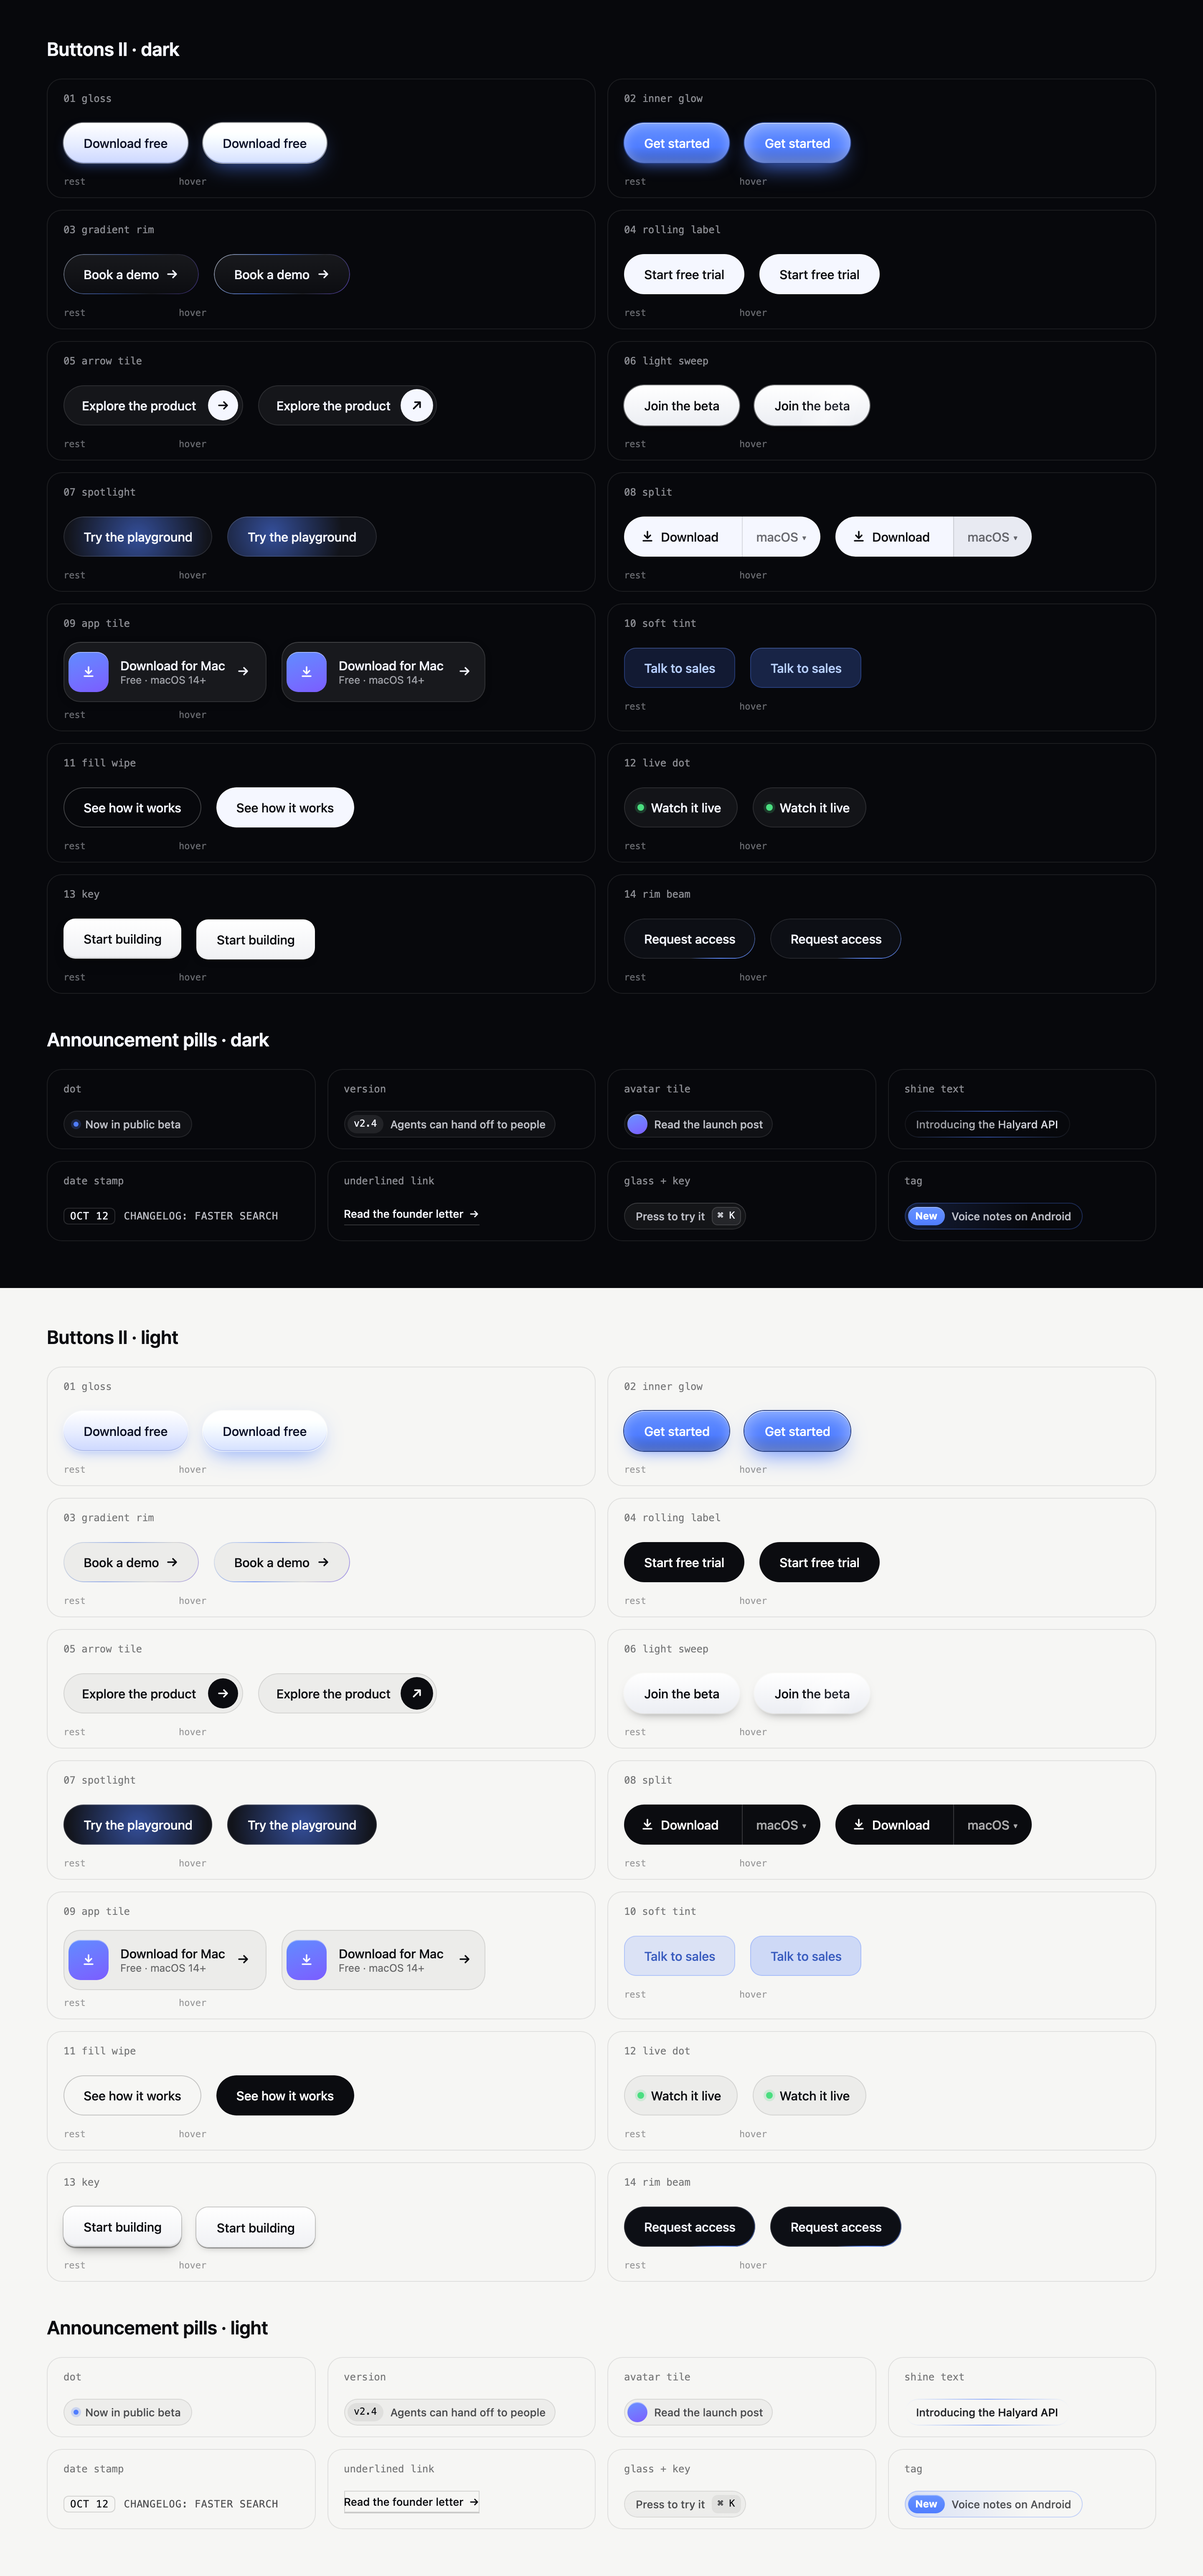
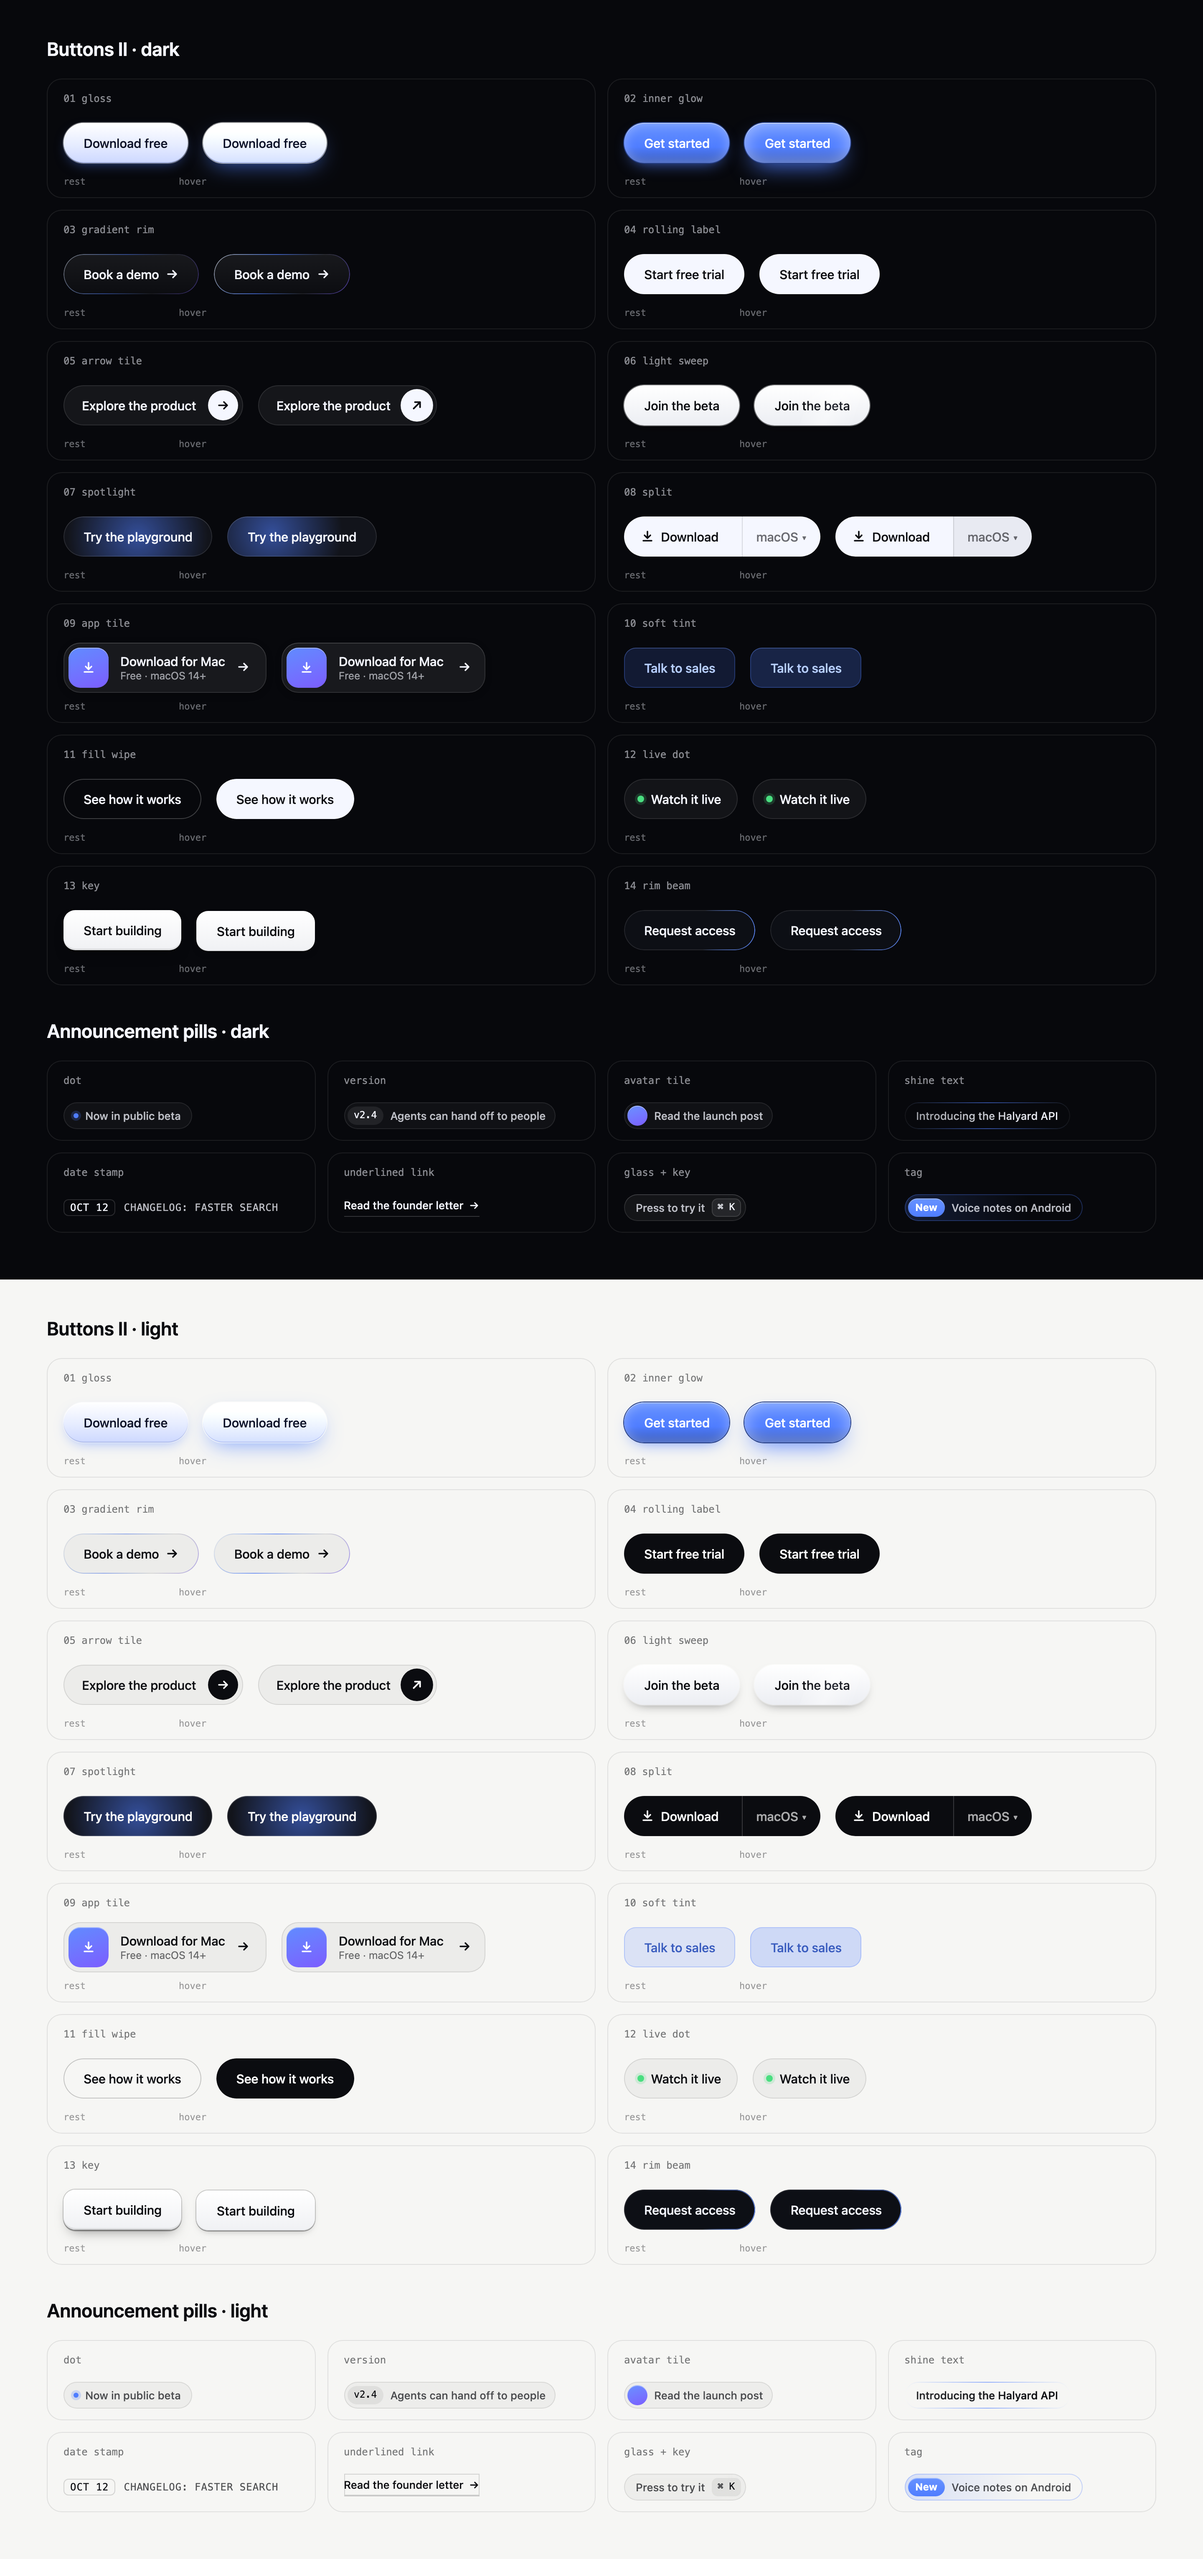
check.mjs: shape.inset-tile probe (leading tile inset left = top = bottom, concentric radius, zoom-aware, whole page); Buttons II border-box sizing fixes the app-tile's doubled vertical inset; Halyard lane tiles inset 8/8/8

diff --git a/system/variety/buttons-2/buttons-2.css b/system/variety/buttons-2/buttons-2.css
@@ -3,7 +3,7 @@
    Every class reads --acc (accent), --acc-2 (accent end), --ink, --canvas. Add .is-hover to show a hover state statically.
    Light theme: wrap in [data-theme=light]. */
 :root { --acc: #4f7dff; --acc-2: #7b5cff; --ink: #f5f7ff; --canvas: #07080c; --ease: cubic-bezier(.22,1,.36,1); }
-.b2 { position: relative; display: inline-flex; align-items: center; justify-content: center; gap: 8px; height: 48px; padding: 0 24px; border-radius: 999px; font: 500 15px/1 "Inter", system-ui, sans-serif; letter-spacing: -0.005em; text-decoration: none; white-space: nowrap; cursor: pointer; border: 0; overflow: hidden; isolation: isolate; transition: transform .16s var(--ease), box-shadow .25s var(--ease), background .25s var(--ease), filter .25s; }
+.b2 { box-sizing: border-box; position: relative; display: inline-flex; align-items: center; justify-content: center; gap: 8px; height: 48px; padding: 0 24px; border-radius: 999px; font: 500 15px/1 "Inter", system-ui, sans-serif; letter-spacing: -0.005em; text-decoration: none; white-space: nowrap; cursor: pointer; border: 0; overflow: hidden; isolation: isolate; transition: transform .16s var(--ease), box-shadow .25s var(--ease), background .25s var(--ease), filter .25s; }
 .b2:active { transform: scale(.975); }
 .b2.sq { border-radius: 14px; }            /* smooth-corner variant: pair with squircle.ts clip for true G2 */
 .b2 svg { width: 16px; height: 16px; flex: none; }

diff --git a/work/x-posts/buttons-2.css b/work/x-posts/buttons-2.css
@@ -3,7 +3,7 @@
    Every class reads --acc (accent), --acc-2 (accent end), --ink, --canvas. Add .is-hover to show a hover state statically.
    Light theme: wrap in [data-theme=light]. */
 :root { --acc: #4f7dff; --acc-2: #7b5cff; --ink: #f5f7ff; --canvas: #07080c; --ease: cubic-bezier(.22,1,.36,1); }
-.b2 { position: relative; display: inline-flex; align-items: center; justify-content: center; gap: 8px; height: 48px; padding: 0 24px; border-radius: 999px; font: 500 15px/1 "Inter", system-ui, sans-serif; letter-spacing: -0.005em; text-decoration: none; white-space: nowrap; cursor: pointer; border: 0; overflow: hidden; isolation: isolate; transition: transform .16s var(--ease), box-shadow .25s var(--ease), background .25s var(--ease), filter .25s; }
+.b2 { box-sizing: border-box; position: relative; display: inline-flex; align-items: center; justify-content: center; gap: 8px; height: 48px; padding: 0 24px; border-radius: 999px; font: 500 15px/1 "Inter", system-ui, sans-serif; letter-spacing: -0.005em; text-decoration: none; white-space: nowrap; cursor: pointer; border: 0; overflow: hidden; isolation: isolate; transition: transform .16s var(--ease), box-shadow .25s var(--ease), background .25s var(--ease), filter .25s; }
 .b2:active { transform: scale(.975); }
 .b2.sq { border-radius: 14px; }            /* smooth-corner variant: pair with squircle.ts clip for true G2 */
 .b2 svg { width: 16px; height: 16px; flex: none; }

diff --git a/work/halyard/app/src/Bento.tsx b/work/halyard/app/src/Bento.tsx
@@ -55,7 +55,7 @@ function Signals({ t }: { t: number }) {
           const I = l.icon
           const hot = found && /412|2\.41|#4821/.test(l.lines[k])
           return (
-            <div key={l.name} className="flex h-9 items-center gap-3 rounded-[8px] bg-white/[0.025] pl-2.5 pr-3 shadow-[inset_0_0_0_1px_var(--rule)]">
+            <div key={l.name} className="flex h-9 items-center gap-3 rounded-[8px] bg-white/[0.025] pl-2 pr-3 shadow-[inset_0_0_0_1px_var(--rule)]">
               <span className="grid size-5 place-items-center rounded-[5px] bg-white/[0.06] text-[#cfcfcf]"><I size={12} strokeWidth={2} /></span>
               <Mono className="w-[58px] text-[var(--sub)]">{l.name}</Mono>
               <div className="relative flex h-[18px] flex-1 items-center overflow-hidden">

diff --git a/knowledge/founder/founder-taste.md b/knowledge/founder/founder-taste.md
@@ -317,3 +317,6 @@ Every rule here is a direct founder verdict on real output. It outranks books, w
 - **RULE** [founder] Buttons vary by their inner effect, not by their shape: keep the shape fully round (pill) or softly rounded with smooth corners (squircle-like, radius 12-18px at 44-52px tall); vary the clean effect inside (gloss, inner glow, gradient rim, rolling label, arrow tile, light sweep, spotlight, split segment, icon tile). Do not reuse the previous two builds' primary effect. Never go brutalist, square-cut or heavy offset-shadow.
   **Why** Founder: "explore more button styles, so that all of our designs wouldn't be repetitive", then: "mostly fully round or like smoother corners, but the effects inside of them and stuff, just clean".
   **Applies to** all builds. **Check** primary CTA radius is a pill or 12-18px smooth corner; its effect class differs from the last two builds (Murmur ice gloss, Weekline slide-swap). Catalogue: `system/variety/buttons-2/`. **Source** founder, 2026-10-12
+- **RULE** [founder] When a button, row or card leads with a tile (icon square, app icon, avatar box), the tile's left inset equals its top and bottom insets, exactly. The tile's radius is concentric with the container (outer radius - inset) when there is room; otherwise it stays smaller than the outer radius. Size controls with `box-sizing: border-box` so padding never inflates the height and doubles the vertical inset.
+  **Why** Founder on the Buttons II app-tile button (left inset 6px, top/bottom 12px because padding was added on top of a fixed height): "WTF IS THE LEFT SPACING FOR THE CARD WITH RECTANGULAR BOX OR ICONS ON LEFT???? IT SHOULD BE SAME AS TOP AND BOTTOM PADDINGS". The new probe then found the same fault shipped in Halyard's bento lanes (10 left vs 8 top/bottom).
+  **Applies to** all buttons, list rows, cards and chips with a leading tile. **Check** `node tools/check.mjs` probe `shape.inset-tile` (FAIL): left = top = bottom within 1.5px, radius concentric. **Source** founder, 2026-10-12, Buttons II / X posts
